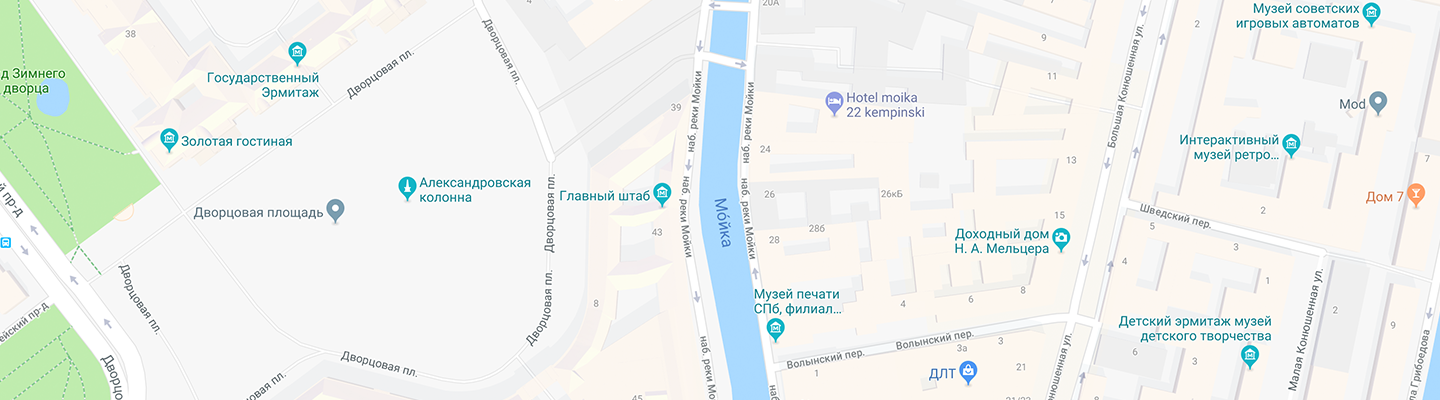
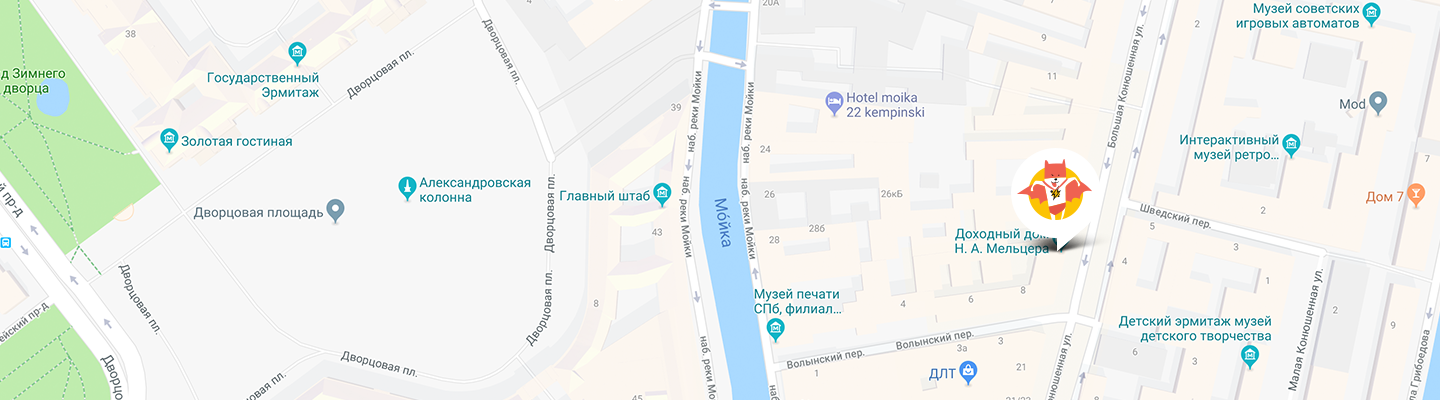
Добавляет карту без JS

Changed region(s): [[0.6875, 0.39, 0.7812, 0.63]]

diff --git a/source/sass/blocks/contacts.scss b/source/sass/blocks/contacts.scss
@@ -2,12 +2,12 @@
   margin: 0 auto;
   min-width: 320px;
   position: relative;
-  background-image: url("/img/bg-map-mobile@1x.png");
 }
 
 @media (min-width: $tablet-width) {
   .contacts {
     width: 100%;
+    background-image: url("../img/bg-map-tablet@1x.png");
   }
 }
 
@@ -22,6 +22,23 @@
   height: 400px;
   display: block;
   background-color: #f7f7f7;
+  background-image: url("../img/bg-map-mobile@1x.png");
+  background-repeat: no-repeat;
+  background-position: center;
+}
+
+@media (min-width: $tablet-width) {
+  .contacts__map-image {
+    background-image: url("../img/bg-map-tablet@1x.png");
+  }
+}
+
+@media (min-width: $desktop-width) {
+  .contacts__map-image {
+    width: 100%;
+    overflow: visible;
+    background-image: url("../img/bg-map-desktop@1x.png");
+  }
 }
 
 .contacts__wrapper {
@@ -55,10 +72,9 @@
   .contacts__wrapper {
     position: absolute;
     top: 95px;
-    left: 40px;
+    left: calc((100vw - 1220px) / 2);
     width: 570px;
     background-color: #ffffff;
-
     margin: 0;
     padding: 0;
     justify-content: flex-start;
@@ -122,13 +138,6 @@
     padding: 60px 0 60px 95px;
     width: 155px;
     text-align: left;
-  }
-}
-
-@media (min-width: $desktop-width) {
-  .contacts__map-image {
-    width: 100%;
-    overflow: visible;
   }
 }
 

diff --git a/source/sass/blocks/addition.scss b/source/sass/blocks/addition.scss
@@ -118,7 +118,7 @@
   flex-direction: column;
   align-items: center;
   background-color: $leaf;
-  background-image: url("/img/gift-photo-mobile@1x.jpg");
+  background-image: url("../img/gift-photo-mobile@1x.jpg");
   background-repeat: no-repeat;
   background-position: center;
   background-size: cover;
@@ -133,7 +133,7 @@
     flex-direction: row;
     justify-content: space-between;
     height: 200px;
-    background-image: url("/img/gift-photo-tablet@1x.jpg");
+    background-image: url("../img/gift-photo-tablet@1x.jpg");
     width: 708px;
   }
 }
@@ -144,7 +144,7 @@
     flex-direction: column;
     justify-content: space-between;
     height: 290px;
-    background-image: url("/img/gift-photo-desktop@1x.jpg");
+    background-image: url("../img/gift-photo-desktop@1x.jpg");
     width: 245px;
   }
 }
